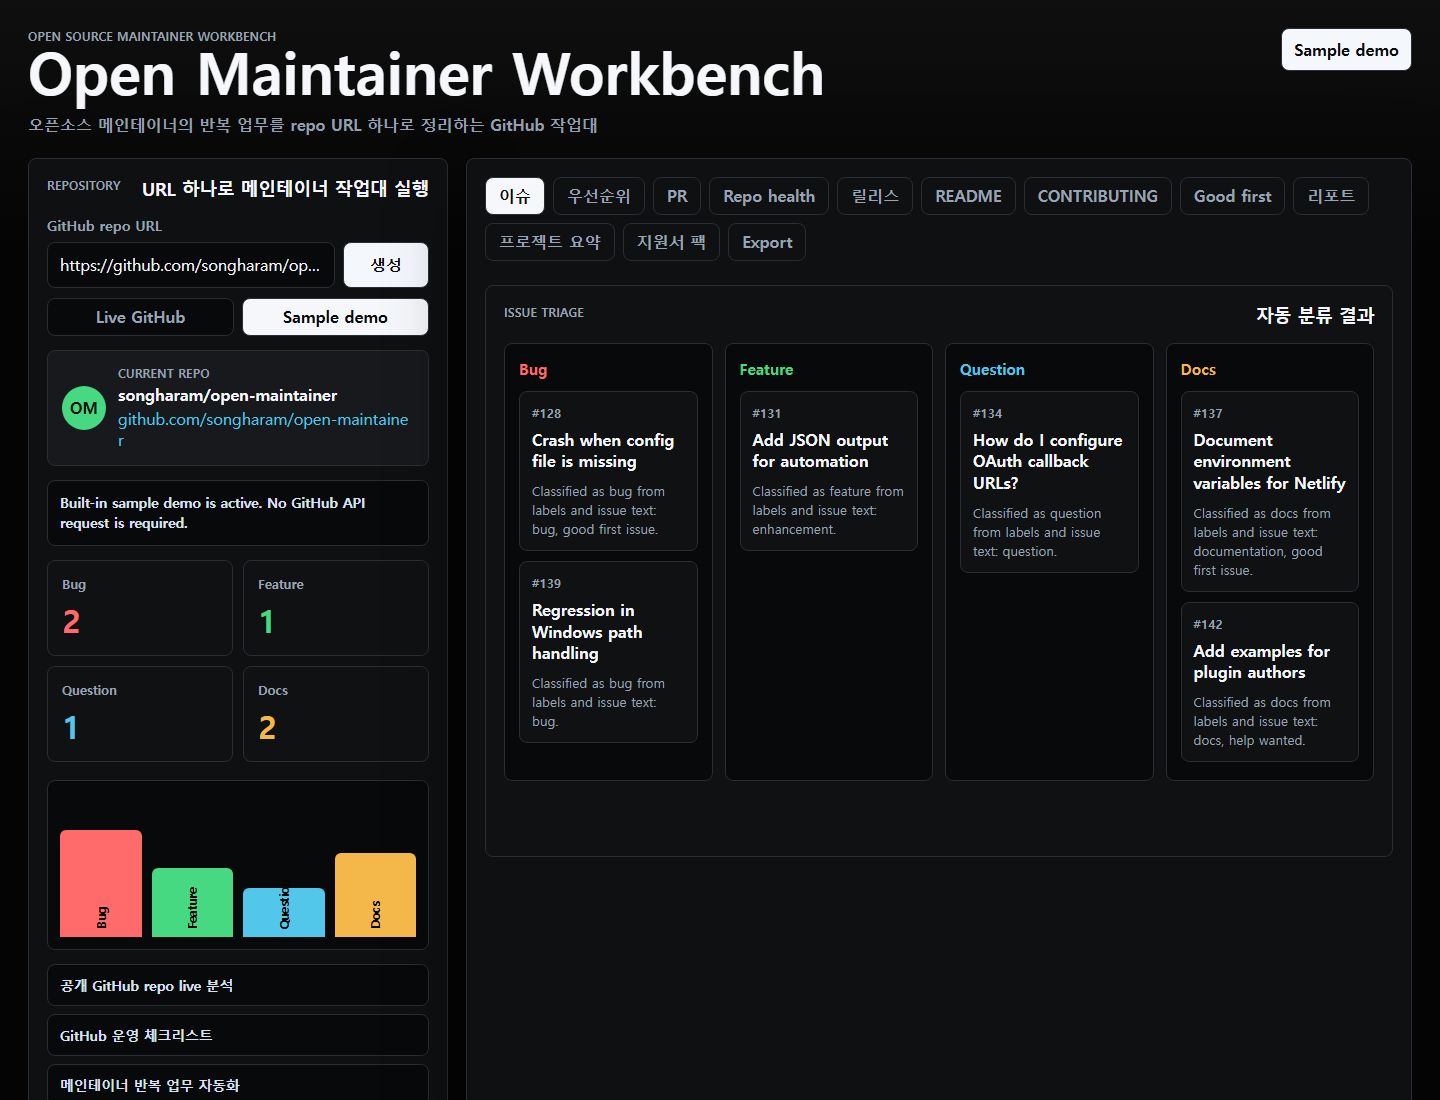
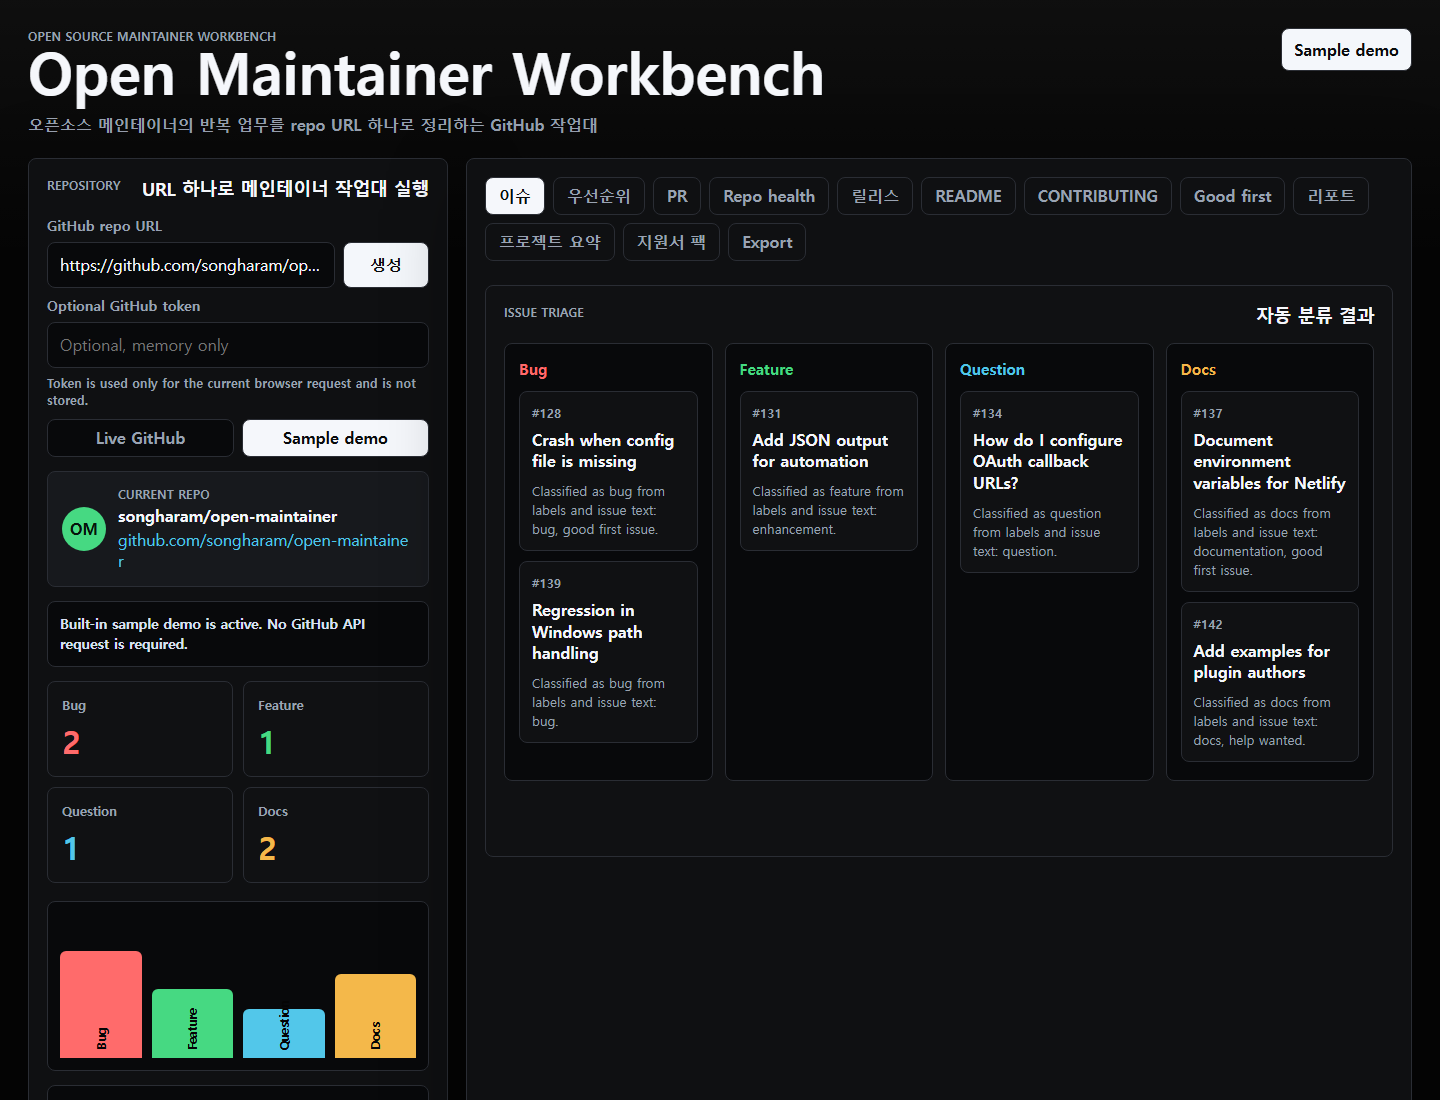
feat: add optional github token support

diff --git a/src/providers/github-provider.js b/src/providers/github-provider.js
@@ -15,6 +15,7 @@ export class GitHubProviderError extends Error {
 
 export async function getRepositorySnapshotFromGitHub(repoIdentity, options = {}) {
   const fetcher = options.fetcher || globalThis.fetch;
+  const requestHeaders = buildRequestHeaders(options.token);
 
   if (!fetcher) {
     throw new GitHubProviderError("no-fetch", "A fetch implementation is required.");
@@ -24,13 +25,15 @@ export async function getRepositorySnapshotFromGitHub(repoIdentity, options = {}
   const repo = encodeURIComponent(repoIdentity.repo);
   const baseUrl = `${GITHUB_API_BASE}/repos/${owner}/${repo}`;
   const [issuesPayload, pullsPayload, releasesPayload] = await Promise.all([
-    requestJson(`${baseUrl}/issues?state=open&per_page=30&sort=updated&direction=desc`, fetcher),
-    requestJson(`${baseUrl}/pulls?state=open&per_page=10&sort=updated&direction=desc`, fetcher),
-    requestJson(`${baseUrl}/releases?per_page=5`, fetcher)
+    requestJson(`${baseUrl}/issues?state=open&per_page=30&sort=updated&direction=desc`, fetcher, requestHeaders),
+    requestJson(`${baseUrl}/pulls?state=open&per_page=10&sort=updated&direction=desc`, fetcher, requestHeaders),
+    requestJson(`${baseUrl}/releases?per_page=5`, fetcher, requestHeaders)
   ]);
 
   const pullRequests = await Promise.all(
-    pullsPayload.map((pullRequest) => normalizePullRequest(baseUrl, pullRequest, fetcher))
+    pullsPayload.map((pullRequest) =>
+      normalizePullRequest(baseUrl, pullRequest, fetcher, requestHeaders)
+    )
   );
   const issues = issuesPayload
     .filter((issue) => !issue.pull_request)
@@ -47,10 +50,10 @@ export async function getRepositorySnapshotFromGitHub(repoIdentity, options = {}
   };
 }
 
-async function requestJson(url, fetcher) {
+async function requestJson(url, fetcher, headers) {
   let response;
   try {
-    response = await fetcher(url, { headers: REQUEST_HEADERS });
+    response = await fetcher(url, { headers });
   } catch (error) {
     throw new GitHubProviderError(
       "network",
@@ -110,8 +113,12 @@ function normalizeIssue(issue) {
   };
 }
 
-async function normalizePullRequest(baseUrl, pullRequest, fetcher) {
-  const files = await requestJson(`${baseUrl}/pulls/${pullRequest.number}/files?per_page=30`, fetcher);
+async function normalizePullRequest(baseUrl, pullRequest, fetcher, headers) {
+  const files = await requestJson(
+    `${baseUrl}/pulls/${pullRequest.number}/files?per_page=30`,
+    fetcher,
+    headers
+  );
 
   return {
     number: pullRequest.number,
@@ -157,6 +164,15 @@ function buildStatus(issues, pullRequests, releases) {
     kind: "live",
     message: `Loaded ${issues.length} issues, ${pullRequests.length} pull requests, and ${releases.length} releases from GitHub.`
   };
+}
+
+function buildRequestHeaders(token) {
+  const headers = { ...REQUEST_HEADERS };
+  const cleanToken = String(token || "").trim();
+  if (cleanToken) {
+    headers.Authorization = `Bearer ${cleanToken}`;
+  }
+  return headers;
 }
 
 function sum(items, key) {

diff --git a/app.js b/app.js
@@ -8,6 +8,7 @@ import { getRepositorySnapshot } from "./src/providers/sample-provider.js";
 
 const form = document.querySelector("#repoForm");
 const repoInput = document.querySelector("#repoInput");
+const tokenInput = document.querySelector("#tokenInput");
 const modeButtons = document.querySelectorAll("[data-mode]");
 const providerStatus = document.querySelector("#providerStatus");
 const repoName = document.querySelector("#repoName");
@@ -99,7 +100,11 @@ async function renderWorkspace(repoValue) {
       : "공개 GitHub 저장소 데이터를 불러오는 중입니다.";
   providerNotice.dataset.kind = "loading";
   const repoIdentity = extractRepoIdentity(repoValue);
-  const { snapshot, notice, sourceMode } = await loadRepositorySnapshot(repoIdentity, currentDataMode);
+  const { snapshot, notice, sourceMode } = await loadRepositorySnapshot(
+    repoIdentity,
+    currentDataMode,
+    tokenInput.value
+  );
   const workspace = generateMaintainerWorkspace(repoValue, snapshot);
   latestWorkspace = workspace;
 
@@ -126,7 +131,7 @@ async function renderWorkspace(repoValue) {
   renderProviderStatus(snapshot, notice, sourceMode);
 }
 
-async function loadRepositorySnapshot(repoIdentity, mode) {
+async function loadRepositorySnapshot(repoIdentity, mode, token) {
   if (mode === DATA_MODES.sample) {
     const snapshot = await getRepositorySnapshot();
     return {
@@ -137,10 +142,13 @@ async function loadRepositorySnapshot(repoIdentity, mode) {
   }
 
   try {
-    const snapshot = await getRepositorySnapshotFromGitHub(repoIdentity);
+    const cleanToken = String(token || "").trim();
+    const snapshot = await getRepositorySnapshotFromGitHub(repoIdentity, { token: cleanToken });
     return {
       snapshot,
-      notice: snapshot.status.message,
+      notice: cleanToken
+        ? `${snapshot.status.message} Optional token was used for this request and was not stored.`
+        : snapshot.status.message,
       sourceMode: DATA_MODES.live
     };
   } catch (error) {

diff --git a/index.html b/index.html
@@ -49,6 +49,16 @@
               >
               <button type="submit">생성</button>
             </div>
+            <label for="tokenInput">Optional GitHub token</label>
+            <input
+              id="tokenInput"
+              name="token"
+              type="password"
+              autocomplete="off"
+              spellcheck="false"
+              placeholder="Optional, memory only"
+            >
+            <p class="field-help">Token is used only for the current browser request and is not stored.</p>
           </form>
 
           <div class="mode-switch" aria-label="Data source mode">

diff --git a/styles.css b/styles.css
@@ -177,6 +177,15 @@ h3 {
   font-weight: 700;
 }
 
+.field-help {
+  margin: -2px 0 0;
+  color: var(--muted);
+  font-size: 0.78rem;
+  font-weight: 700;
+  line-height: 1.4;
+  overflow-wrap: anywhere;
+}
+
 .input-row {
   display: grid;
   grid-template-columns: minmax(0, 1fr) 86px;

diff --git a/SECURITY.md b/SECURITY.md
@@ -1,6 +1,6 @@
 # Security Policy
 
-Open Maintainer Workbench runs entirely in the browser. It can read public GitHub repository data through unauthenticated GitHub REST API requests and falls back to sample data when GitHub API access fails. It does not require a GitHub token or external API credentials.
+Open Maintainer Workbench runs entirely in the browser. It can read public GitHub repository data through GitHub REST API requests and falls back to sample data when GitHub API access fails. It does not require a GitHub token, but users may optionally paste one for the current browser request.
 
 ## Supported Versions
 
@@ -10,12 +10,13 @@ The `main` branch is the supported demo branch.
 
 If you find a security issue, open a private report through GitHub security advisories if available, or contact the repository maintainer directly.
 
-## Token Handling Direction
+## Token Handling
 
-Any future authenticated GitHub API support must follow these rules:
+Optional GitHub token support follows these rules:
 
 - Never hard-code tokens in source files.
 - Prefer short-lived or user-provided tokens.
-- Store tokens only in memory for the active browser session unless a safer storage model is explicitly designed.
+- Store tokens only in browser memory for the active request.
+- Do not write tokens to local storage, session storage, cookies, URLs, logs, Markdown export, or sample data.
 - Avoid sending repository data to third-party services without clear user action.
 - Keep sample mode working without credentials.

diff --git a/docs/github-api-integration.md b/docs/github-api-integration.md
@@ -7,7 +7,9 @@ The app now includes a live GitHub provider in `src/providers/github-provider.js
 The user provides:
 
 - GitHub repository URL or `owner/repo`
-The current implementation does not store or require tokens. It uses unauthenticated REST API requests for public repositories.
+- Optional GitHub token for the current browser request
+
+The implementation does not require a token for public repositories. When a token is provided, it is passed as a `Bearer` header for GitHub API requests and is not stored.
 
 ## API Reads
 
@@ -55,7 +57,8 @@ GitHub responses should be normalized into:
 ## Safety Rules
 
 - Keep sample mode available without credentials.
-- Do not store tokens persistently by default.
+- Do not store tokens persistently.
+- Do not include tokens in URLs, local storage, logs, Markdown export, or sample data.
 - Show clear error states for rate limits and missing permissions.
 - Keep fetch logic inside `src/providers/github-provider.js`.
 

diff --git a/CHANGELOG.md b/CHANGELOG.md
@@ -1,5 +1,11 @@
 # Changelog
 
+## 0.8.0 - 2026-06-04
+
+- Added optional in-memory GitHub token support for live provider requests.
+- Added provider tests that verify bearer token headers are sent only when a token is supplied.
+- Updated UI copy, README, SECURITY, and GitHub API docs to state that tokens are not stored.
+
 ## 0.7.0 - 2026-06-04
 
 - Added a `지원서 팩` tab with repository fit, interested areas, API credit plan, and additional context drafts.

diff --git a/docs/demo-script.md b/docs/demo-script.md
@@ -8,7 +8,7 @@ Open the deployed site or local static server. Point out that the app starts in 
 
 ## 2. Enter a Repository URL
 
-Use the default URL or paste another GitHub-style URL. Click `생성`. Use `Live GitHub` for real public repository data and `Sample demo` when you need predictable demo data.
+Use the default URL or paste another GitHub-style URL. Click `생성`. Use `Live GitHub` for real public repository data and `Sample demo` when you need predictable demo data. Point out that the optional GitHub token field is memory-only and not required for the demo.
 
 ## 3. Show Maintainer Outputs
 
@@ -29,4 +29,4 @@ Walk through these tabs:
 
 ## 4. Explain the Extension Path
 
-The current demo already reads public GitHub Issues, Pull Requests, changed files, and Releases through `src/providers/github-provider.js`. It also has an explicit `Sample demo` mode so reviewers can see a populated workflow even when the target repository is empty. The next step is optional token support and Codex/API-assisted summaries grounded in real repository history.
+The current demo already reads public GitHub Issues, Pull Requests, changed files, and Releases through `src/providers/github-provider.js`. It also has an explicit `Sample demo` mode so reviewers can see a populated workflow even when the target repository is empty. Optional token support is in-memory only. The next step is Codex/API-assisted summaries grounded in real repository history.

diff --git a/docs/roadmap.md b/docs/roadmap.md
@@ -13,7 +13,7 @@
 - Fetch open issues, pull requests, pull request files, and releases. Completed in `0.4.0`.
 - Normalize GitHub API responses into the existing snapshot shape. Completed in `0.4.0`.
 - Keep sample mode as a no-login fallback. Completed in `0.4.0`.
-- Next: support optional user-provided tokens without storing them.
+- Support optional user-provided tokens without storing them. Completed in `0.8.0`.
 
 ## Phase 3: Codex-Assisted Maintainer Workflows
 

diff --git a/README.md b/README.md
@@ -28,6 +28,7 @@ Open Maintainer Workbench는 오픈소스 메인테이너가 반복적으로 처
 - 500자 제한에 맞춘 지원 신청 답변 패키지 생성
 - 전체 산출물 Markdown 복사 및 다운로드
 - 공개 GitHub 저장소의 Issues, Pull Requests, Releases live 읽기
+- 선택적 GitHub token 입력 지원: 브라우저 메모리에서만 사용하고 저장하지 않음
 - `Live GitHub` / `Sample demo` 데이터 모드 전환
 - API 실패, rate limit, 빈 저장소 상태 표시
 - GitHub API 실패 시 예시 데이터 fallback